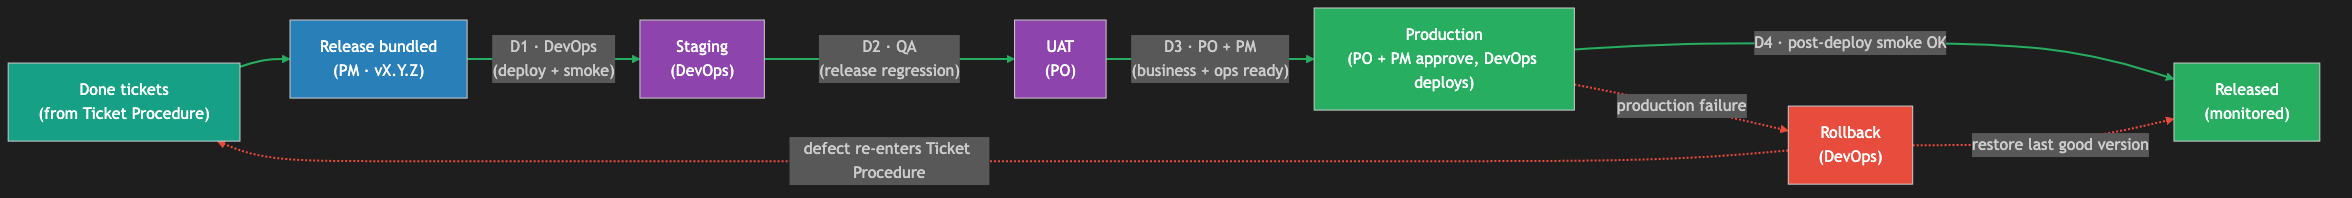
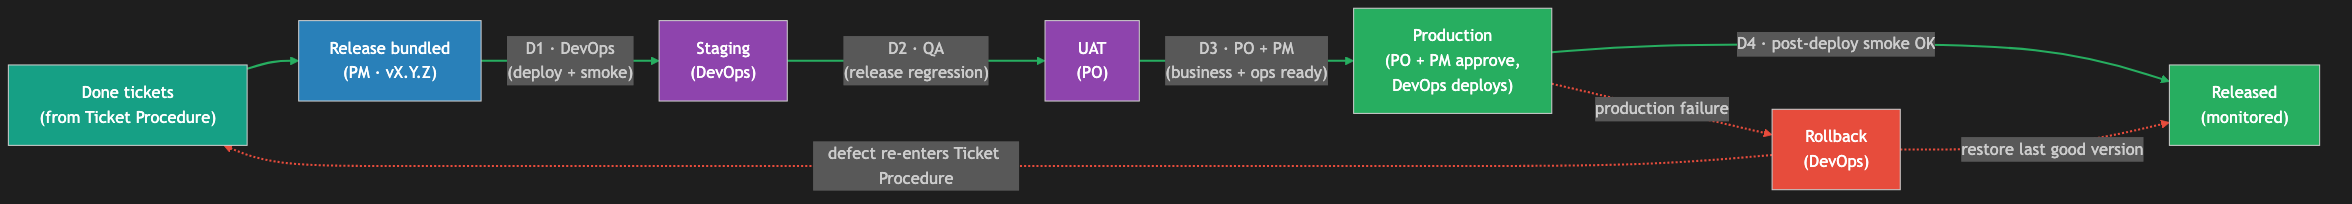
Wrap Production node label in deployment diagram
Break 'PO + PM approve, DevOps deploys' onto two lines with <br/>; re-render png/svg

Changed region(s): [[0.0, 0.0303, 0.9932, 0.9394], [0.9311, 0.4242, 0.9932, 0.4848]]

diff --git a/feeds/management/agile/procedure/signoff-deployment-procedure.md b/feeds/management/agile/procedure/signoff-deployment-procedure.md
@@ -73,7 +73,7 @@ flowchart LR
     DONE["Done tickets<br/>(from Ticket Procedure)"]:::input --> REL["Release bundled<br/>(PM · vX.Y.Z)"]:::process
     REL -->|"D1 · DevOps<br/>(deploy + smoke)"| ST["Staging<br/>(DevOps)"]:::process
     ST -->|"D2 · QA<br/>(release regression)"| UAT["UAT<br/>(PO)"]:::process
-    UAT -->|"D3 · PO + PM<br/>(business + ops ready)"| PROD["Production<br/>(PO + PM approve, DevOps deploys)"]:::success
+    UAT -->|"D3 · PO + PM<br/>(business + ops ready)"| PROD["Production<br/>(PO + PM approve,<br/>DevOps deploys)"]:::success
     PROD -->|"D4 · post-deploy smoke OK"| LIVE["Released<br/>(monitored)"]:::success
 
     PROD -.->|"production failure"| RB["Rollback<br/>(DevOps)"]:::danger